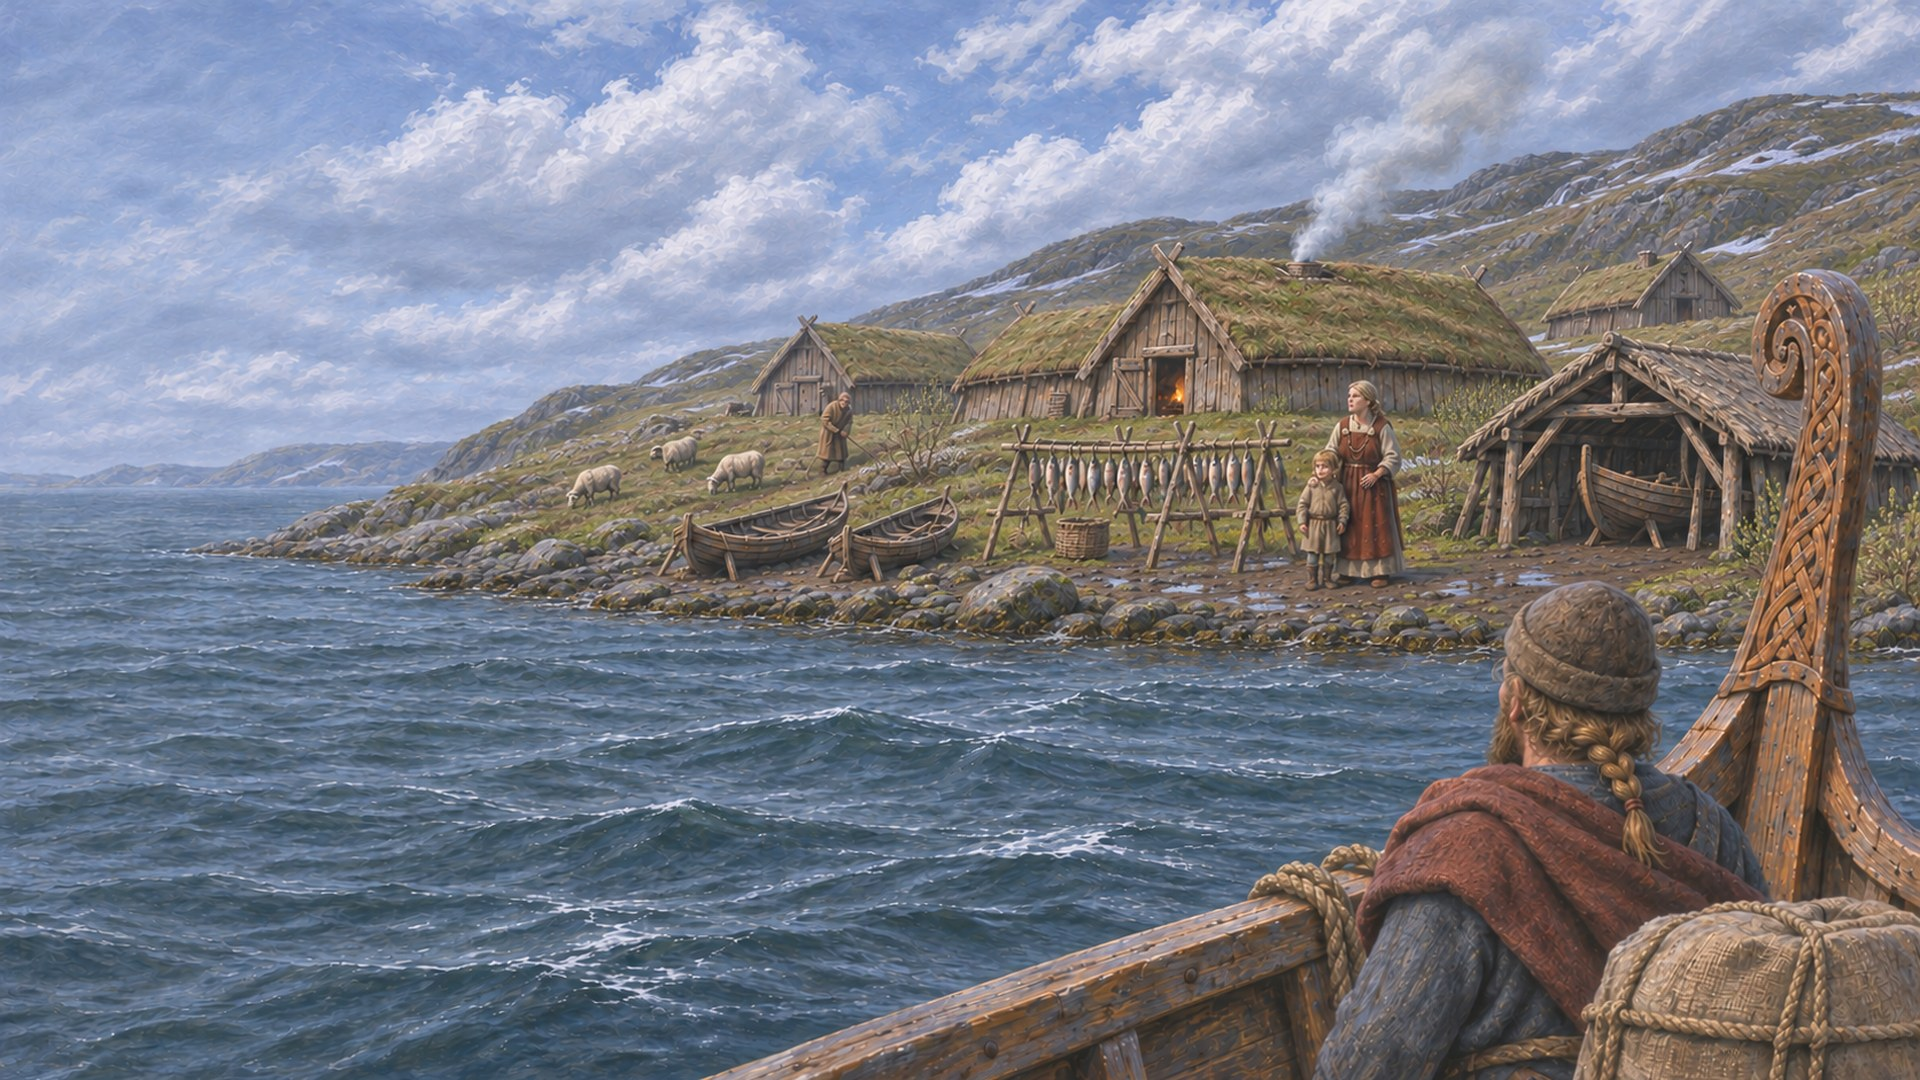
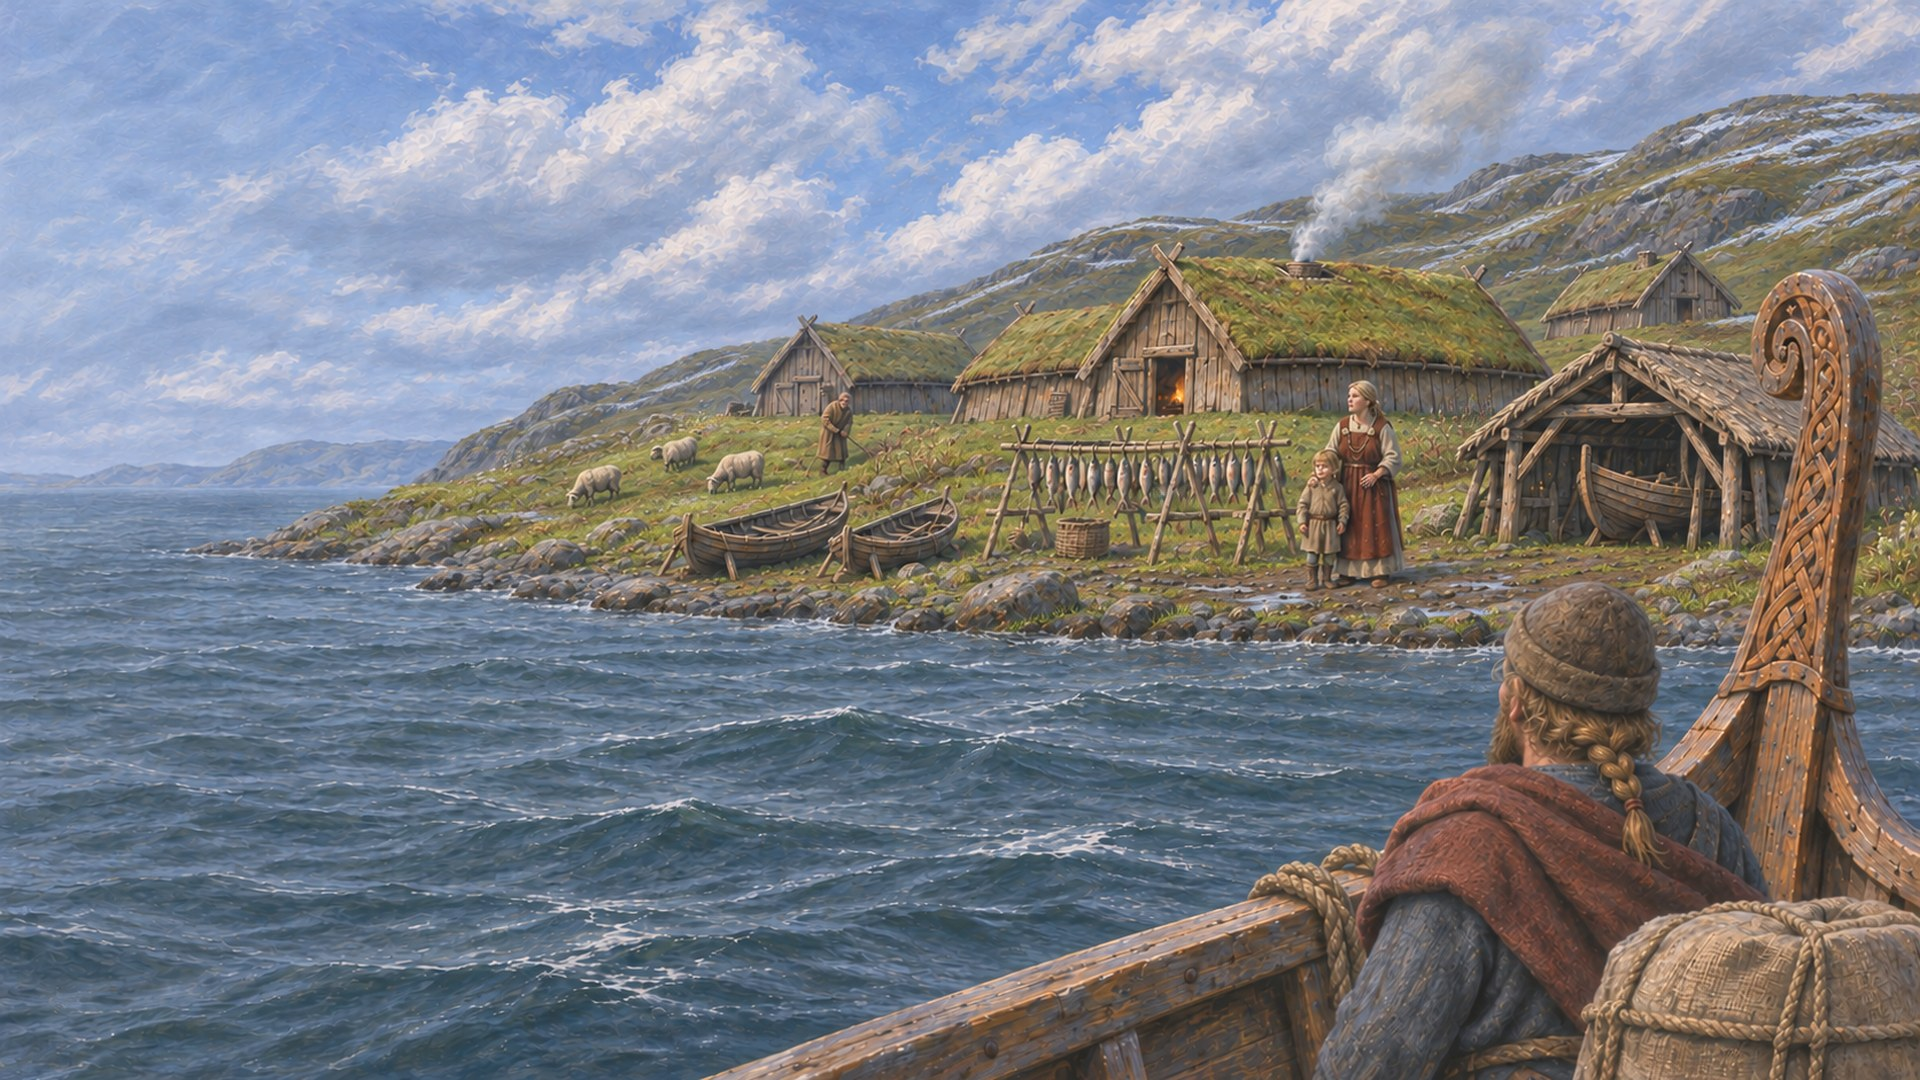
The rest of the seasonal paintings
The last 55 season paintings from the seasonal set (215 in all, plus the skarn winter village),
placed with tools/art-place/place.py --seasonal; the spring hamlet arrival replaced by its redone
version. Asset index rebuilt (it now also lists the delivered Skarn home music as final).

diff --git a/game/ASSET_LIST.md b/game/ASSET_LIST.md
@@ -2,7 +2,7 @@
 
 _Generated by `npm run tool -- assets-index` from `src/content/assets/manifest/*.json` and the files in `public/assets/`. Do not edit by hand; see ASSET_DROP_IN.md._
 
-**354 assets: 100 final, 254 placeholder.** Images 226 · music 30 · sound effects 91 · voice 7.
+**354 assets: 101 final, 253 placeholder.** Images 226 · music 30 · sound effects 91 · voice 7.
 
 ## encounters (8: 8 final, 0 placeholder)
 
@@ -21,15 +21,15 @@ _Generated by `npm run tool -- assets-index` from `src/content/assets/manifest/*
 
 | Asset id | Kind | Final file (under public/assets/) | Size / duration | Brief | Status |
 |---|---|---|---|---|---|
-| `expeditions.scene.homecoming` | image | `expeditions/homecoming.jpg` | 1920×1080 | The expedition comes home: from the leading ship's deck, the ships rowing up the fjord low in the water, the whole village running down to the strand. Subject on the right two thirds; the left third stays calm for text. | final |
-| `expeditions.scene.lost` | image | `expeditions/lost.jpg` | 1920×1080 | The expedition is lost: a handful of soaked survivors walking home along a grey shore road in the rain, without their ships, the home village small ahead. Subject on the right two thirds; the left third stays calm for text. | final |
-| `expeditions.scene.planner` | image | `expeditions/planner.jpg` | 1920×1080 | Mustering an expedition: early morning on the strand below the home village, three ships with gangplanks down, men carrying barrels, sacks, spears and shields aboard. Subject on the right two thirds; the left third stays calm for text. | final |
+| `expeditions.scene.homecoming` | image | `expeditions/homecoming.jpg` | 1920×1080 | The expedition comes home: from the leading ship's deck, the ships rowing up the fjord low in the water, the whole village running down to the strand. Subject on the right two thirds; the left third stays calm for text. | final; own paintings for spring, autumn, winter |
+| `expeditions.scene.lost` | image | `expeditions/lost.jpg` | 1920×1080 | The expedition is lost: a handful of soaked survivors walking home along a grey shore road in the rain, without their ships, the home village small ahead. Subject on the right two thirds; the left third stays calm for text. | final; own paintings for spring, autumn, winter |
+| `expeditions.scene.planner` | image | `expeditions/planner.jpg` | 1920×1080 | Mustering an expedition: early morning on the strand below the home village, three ships with gangplanks down, men carrying barrels, sacks, spears and shields aboard. Subject on the right two thirds; the left third stays calm for text. | final; own paintings for spring, autumn, winter |
 
 ## settlements (26: 26 final, 0 placeholder)
 
 | Asset id | Kind | Final file (under public/assets/) | Size / duration | Brief | Status |
 |---|---|---|---|---|---|
-| `settlements.scene.aftermath` | image | `settlements/aftermath.jpg` | 1920×1080 | After the assault: the taken settlement behind, smoke rising red in the dusk, our warriors with a banner in the foreground. | final |
+| `settlements.scene.aftermath` | image | `settlements/aftermath.jpg` | 1920×1080 | After the assault: the taken settlement behind, smoke rising red in the dusk, our warriors with a banner in the foreground. | final; own paintings for spring, autumn, winter |
 | `settlements.scene.arrival.capital` | image | `settlements/arrival-capital.jpg` | 1920×1080 | Arrival by sea at a capital: seen from our ship's bow, the shore, jetty and houses ahead, walls as the place has them. Subject on the right two thirds; the left third stays calm for text. | final; own paintings for spring, autumn, winter |
 | `settlements.scene.arrival.city` | image | `settlements/arrival-city.jpg` | 1920×1080 | Arrival by sea at a city: seen from our ship's bow, the shore, jetty and houses ahead, walls as the place has them. Subject on the right two thirds; the left third stays calm for text. | final; own paintings for spring, autumn, winter |
 | `settlements.scene.arrival.city.south` | image | `settlements/arrival-city-south.jpg` | 1920×1080 | Arrival by sea at a city of the warm south (Corvaine): old imperial stone walls patched with brick, red roofs, a stone breakwater, cypress and olive hills, a pillared hall with a gilded lantern. Seen from our ship's bow. Subject on the right two thirds; the left third stays calm for text. | final; own paintings for spring, autumn, winter |
@@ -49,10 +49,10 @@ _Generated by `npm run tool -- assets-index` from `src/content/assets/manifest/*
 | `settlements.scene.visit.capital` | image | `settlements/visit-capital.jpg` | 1920×1080 | Visiting a capital: standing on its quay among barrels and mooring posts, the houses and hall close above the strand. Subject on the right two thirds. | final; own paintings for spring, autumn, winter |
 | `settlements.scene.visit.city` | image | `settlements/visit-city.jpg` | 1920×1080 | Visiting a city: standing on its quay among barrels and mooring posts, the houses and hall close above the strand. Subject on the right two thirds. | final; own paintings for spring, autumn, winter |
 | `settlements.scene.visit.cloister` | image | `settlements/visit-cloister.jpg` | 1920×1080 | Visiting a cloister: standing on its quay among barrels and mooring posts, the houses and hall close above the strand. Subject on the right two thirds. | final; own paintings for spring, autumn, winter |
-| `settlements.scene.visit.emporium` | image | `settlements/visit-emporium.jpg` | 1920×1080 | Visiting a emporium: standing on its quay among barrels and mooring posts, the houses and hall close above the strand. Subject on the right two thirds. | final |
+| `settlements.scene.visit.emporium` | image | `settlements/visit-emporium.jpg` | 1920×1080 | Visiting a emporium: standing on its quay among barrels and mooring posts, the houses and hall close above the strand. Subject on the right two thirds. | final; own paintings for spring, autumn, winter |
 | `settlements.scene.visit.fortress` | image | `settlements/visit-fortress.jpg` | 1920×1080 | Visiting a fortress: standing on its quay among barrels and mooring posts, the houses and hall close above the strand. Subject on the right two thirds. | final; own paintings for spring, autumn, winter |
 | `settlements.scene.visit.hamlet` | image | `settlements/visit-hamlet.jpg` | 1920×1080 | Visiting a hamlet: standing on its quay among barrels and mooring posts, the houses and hall close above the strand. Subject on the right two thirds. | final; own paintings for spring, autumn, winter |
-| `settlements.scene.visit.templeStead` | image | `settlements/visit-temple-stead.jpg` | 1920×1080 | Visiting a temple stead: standing on its quay among barrels and mooring posts, the houses and hall close above the strand. Subject on the right two thirds. | final |
+| `settlements.scene.visit.templeStead` | image | `settlements/visit-temple-stead.jpg` | 1920×1080 | Visiting a temple stead: standing on its quay among barrels and mooring posts, the houses and hall close above the strand. Subject on the right two thirds. | final; own paintings for spring, autumn, winter |
 | `settlements.scene.visit.town` | image | `settlements/visit-town.jpg` | 1920×1080 | Visiting a town: standing on its quay among barrels and mooring posts, the houses and hall close above the strand. Subject on the right two thirds. | final; own paintings for spring, autumn, winter |
 | `settlements.scene.visit.village` | image | `settlements/visit-village.jpg` | 1920×1080 | Visiting a village: standing on its quay among barrels and mooring posts, the houses and hall close above the strand. Subject on the right two thirds. | final; own paintings for spring, autumn, winter |
 
@@ -63,7 +63,7 @@ _Generated by `npm run tool -- assets-index` from `src/content/assets/manifest/*
 | `news.icon.confirmed` | image | `news/icon-confirmed.png` | 64×64 | Confirmed | placeholder |
 | `news.icon.dispatch` | image | `news/icon-dispatch.png` | 64×64 | Dispatch | placeholder |
 | `news.icon.rumour` | image | `news/icon-rumour.png` | 64×64 | Rumour | placeholder |
-| `news.illus.messenger` | image | `news/messenger.png` | 640×360 | A Rider Brings Word | final (jpg) |
+| `news.illus.messenger` | image | `news/messenger.png` | 640×360 | A Rider Brings Word | final (jpg); own paintings for spring, autumn, winter |
 | `news.illus.tavernTalk` | image | `news/tavern-talk.png` | 640×360 | Talk in the Mead-Hall | final (jpg) |
 
 ## military (8: 4 final, 4 placeholder)
@@ -73,7 +73,7 @@ _Generated by `npm run tool -- assets-index` from `src/content/assets/manifest/*
 | `military.illus.desertion` | image | `military/desertion.png` | 640×360 | Gone in the Night | final (jpg); own paintings for spring, autumn, winter |
 | `military.illus.muster` | image | `military/muster.png` | 640×360 | The War-Arrow | final (jpg); own paintings for spring, autumn, winter |
 | `military.illus.shipyard` | image | `military/shipyard.png` | 640×360 | The Shipyard | final (jpg); own paintings for spring, autumn, winter |
-| `military.illus.transferIntercepted` | image | `military/transfer-intercepted.png` | 640×360 | Raiders on the Road | final (jpg); own paintings for spring, autumn |
+| `military.illus.transferIntercepted` | image | `military/transfer-intercepted.png` | 640×360 | Raiders on the Road | final (jpg); own paintings for spring, autumn, winter |
 | `military.sfx.coins` | sfx | `sfx/military/hire.ogg` | ~1 s | Sellsword hired. Brief: A purse of hack-silver set down on a mead-hall table: a sellsword is hired. | placeholder |
 | `military.sfx.musterHorn` | sfx | `sfx/military/muster-horn.ogg` | ~3.5 s | Muster horn. Brief: One long cow-horn call rolling over the farms: the war-arrow has gone out and the men are gathering. | placeholder |
 | `military.sfx.shipLaunch` | sfx | `sfx/military/ship-launch.ogg` | ~2.5 s | Ship launched. Brief: A new hull slides off the rollers into the fjord: timber groaning, a heavy splash, a cheer from the slipway. | placeholder |
@@ -95,15 +95,15 @@ _Generated by `npm run tool -- assets-index` from `src/content/assets/manifest/*
 
 | Asset id | Kind | Final file (under public/assets/) | Size / duration | Brief | Status |
 |---|---|---|---|---|---|
-| `narrative.illus.afterTheShieldWall` | image | `narrative/storylets/after-the-shield-wall.png` | 640×360 | When the Shields Come Down | final (jpg) |
+| `narrative.illus.afterTheShieldWall` | image | `narrative/storylets/after-the-shield-wall.png` | 640×360 | When the Shields Come Down | final (jpg); own paintings for spring, autumn, winter |
 | `narrative.illus.boastReckoning` | image | `narrative/storylets/boast-reckoning.png` | 640×360 | The Firth Remembers | final (jpg) |
-| `narrative.illus.boundaryStone` | image | `narrative/storylets/boundary-stone.png` | 640×360 | The Wandering Stone | final (jpg) |
+| `narrative.illus.boundaryStone` | image | `narrative/storylets/boundary-stone.png` | 640×360 | The Wandering Stone | final (jpg); own paintings for spring, autumn, winter |
 | `narrative.illus.drunkenBoast` | image | `narrative/storylets/drunken-boast.png` | 640×360 | A Boast in the Cups | final (jpg) |
 | `narrative.illus.ratsInTheStores` | image | `narrative/storylets/rats-in-the-stores.png` | 640×360 | Rats in the Stores | final (jpg) |
 | `narrative.illus.ravenOverTheWake` | image | `narrative/storylets/raven-over-the-wake.png` | 640×360 | A Raven Over the Wake | final (jpg) |
-| `narrative.illus.skaldsDraft` | image | `narrative/storylets/skalds-draft.png` | 640×360 | The Skald’s Draft | final (jpg) |
+| `narrative.illus.skaldsDraft` | image | `narrative/storylets/skalds-draft.png` | 640×360 | The Skald’s Draft | final (jpg); own paintings for spring, autumn, winter |
 | `narrative.vignette.barrow` | image | `narrative/vignettes/barrow.jpg` | 640×360 | The Old Mound | final; own paintings for spring, autumn, winter |
-| `narrative.vignette.comet` | image | `narrative/vignettes/comet.jpg` | 640×360 | A Star with a Tail | final |
+| `narrative.vignette.comet` | image | `narrative/vignettes/comet.jpg` | 640×360 | A Star with a Tail | final; own paintings for spring, autumn, winter |
 | `narrative.vignette.envoy` | image | `narrative/vignettes/envoy.jpg` | 640×360 | An Envoy | final |
 | `narrative.vignette.famine` | image | `narrative/vignettes/famine.jpg` | 640×360 | Hunger | final |
 | `narrative.vignette.feast` | image | `narrative/vignettes/feast.jpg` | 640×360 | A Feast | final |
@@ -112,26 +112,26 @@ _Generated by `npm run tool -- assets-index` from `src/content/assets/manifest/*
 | `narrative.vignette.harvest` | image | `narrative/vignettes/harvest.jpg` | 640×360 | Harvest | final |
 | `narrative.vignette.holmgang` | image | `narrative/vignettes/holmgang.jpg` | 640×360 | The Duel | final; own paintings for spring, autumn, winter |
 | `narrative.vignette.hunt` | image | `narrative/vignettes/hunt.jpg` | 640×360 | The Hunt | final; own paintings for spring, summer, autumn |
-| `narrative.vignette.landing` | image | `narrative/vignettes/landing.jpg` | 640×360 | Landfall | final |
+| `narrative.vignette.landing` | image | `narrative/vignettes/landing.jpg` | 640×360 | Landfall | final; own paintings for spring, autumn, winter |
 | `narrative.vignette.northernLights` | image | `narrative/vignettes/northern-lights.jpg` | 640×360 | The Northern Lights | final |
 | `narrative.vignette.raid` | image | `narrative/vignettes/raid.jpg` | 640×360 | A Raid | final; own paintings for spring, autumn, winter |
-| `narrative.vignette.ravens` | image | `narrative/vignettes/ravens.jpg` | 640×360 | Ravens | final |
-| `narrative.vignette.shieldWall` | image | `narrative/vignettes/shield-wall.jpg` | 640×360 | The Shield Wall | final |
+| `narrative.vignette.ravens` | image | `narrative/vignettes/ravens.jpg` | 640×360 | Ravens | final; own paintings for spring, autumn, winter |
+| `narrative.vignette.shieldWall` | image | `narrative/vignettes/shield-wall.jpg` | 640×360 | The Shield Wall | final; own paintings for spring, autumn, winter |
 | `narrative.vignette.storehouse` | image | `narrative/vignettes/storehouse.jpg` | 640×360 | The Storehouse | final |
 | `narrative.vignette.storm` | image | `narrative/vignettes/storm.jpg` | 640×360 | Storm at Sea | final |
 | `narrative.vignette.thing` | image | `narrative/vignettes/thing.jpg` | 640×360 | The Assembly | final; own paintings for spring, autumn, winter |
 | `narrative.vignette.trade` | image | `narrative/vignettes/trade.jpg` | 640×360 | A Bargain | final; own paintings for spring, autumn, winter |
 | `narrative.vignette.voyage` | image | `narrative/vignettes/voyage.jpg` | 640×360 | Under Sail | final |
 | `narrative.vignette.winterShore` | image | `narrative/vignettes/winter-shore.jpg` | 640×360 | Winter on the Shore | final |
-| `narrative.vignette.wreck` | image | `narrative/vignettes/wreck.jpg` | 640×360 | Shipwreck | final |
+| `narrative.vignette.wreck` | image | `narrative/vignettes/wreck.jpg` | 640×360 | Shipwreck | final; own paintings for spring, autumn, winter |
 
 ## battle (3: 3 final, 0 placeholder)
 
 | Asset id | Kind | Final file (under public/assets/) | Size / duration | Brief | Status |
 |---|---|---|---|---|---|
-| `battle.scene.before` | image | `battle/before.jpg` | 1920×1080 | Before the battle: a grey morning, our war-band forming its shield line before a palisaded town, the leader pointing, the defenders gathering on the bank ahead. Subject on the right two thirds; the left third stays calm for text. | final |
-| `battle.scene.defeat` | image | `battle/defeat.jpg` | 1920×1080 | The day is lost: dusk, our men falling back toward the ships carrying a wounded friend, the enemy line dark on the ridge behind, not following. Subject on the right two thirds; the left third stays calm for text. | final |
-| `battle.scene.victory` | image | `battle/victory.jpg` | 1920×1080 | The field is ours: evening, our warriors on a taken earth bank with a broken palisade, spears raised as the banner is planted, the last of the enemy running for the trees. Subject on the right two thirds; the left third stays calm for text. | final |
+| `battle.scene.before` | image | `battle/before.jpg` | 1920×1080 | Before the battle: a grey morning, our war-band forming its shield line before a palisaded town, the leader pointing, the defenders gathering on the bank ahead. Subject on the right two thirds; the left third stays calm for text. | final; own paintings for spring, autumn, winter |
+| `battle.scene.defeat` | image | `battle/defeat.jpg` | 1920×1080 | The day is lost: dusk, our men falling back toward the ships carrying a wounded friend, the enemy line dark on the ridge behind, not following. Subject on the right two thirds; the left third stays calm for text. | final; own paintings for spring, autumn, winter |
+| `battle.scene.victory` | image | `battle/victory.jpg` | 1920×1080 | The field is ours: evening, our warriors on a taken earth bank with a broken palisade, spears raised as the banner is planted, the last of the enemy running for the trees. Subject on the right two thirds; the left third stays calm for text. | final; own paintings for spring, autumn, winter |
 
 ## seabattle (24: 3 final, 21 placeholder)
 
@@ -327,7 +327,7 @@ _Generated by `npm run tool -- assets-index` from `src/content/assets/manifest/*
 | `portraits.layer.scar.nose` | image | `portraits/layers/scar/nose.png` | 512×640 | Portrait layer: Scar / eye injury, nose (full colour; transparent 512x640 canvas) | placeholder |
 | `portraits.silhouette` | image | `portraits/silhouette.png` | 512×640 | Unknown or unmet figure (hooded silhouette) | placeholder |
 
-## music (96: 0 final, 96 placeholder)
+## music (96: 1 final, 95 placeholder)
 
 | Asset id | Kind | Final file (under public/assets/) | Size / duration | Brief | Status |
 |---|---|---|---|---|---|
@@ -413,7 +413,7 @@ _Generated by `npm run tool -- assets-index` from `src/content/assets/manifest/*
 | `music.track.funeral` | music | `music/funeral.ogg` | ~150 s, loop | Placeholder: funeral (generative score). Brief: Funeral / epitaph: slow aeolian dirge, choir and horn, a single toll per bar. | placeholder |
 | `music.track.homeEyjar` | music | `music/home-eyjar.ogg` | ~153.3 s, loop | Placeholder: home eyjar (generative score). Brief: Eyjar home hall: lilting compound-time mixolydian with flute and lyre, salt wind and island pride. | placeholder |
 | `music.track.homeHvarn` | music | `music/home-hvarn.ogg` | ~152.7 s, loop | Placeholder: home hvarn (generative score). Brief: Hvarn home hall: slow triple-time dorian with bowed strings and harp, forest-dark and stubborn. | placeholder |
-| `music.track.homeSkarn` | music | `music/home-skarn.ogg` | ~156 s, loop | Placeholder: home skarn (generative score). Brief: Skarn home hall: hearth-warm aeolian lyre and bone flute, steady frame drum; fjord-cold but familiar. | placeholder |
+| `music.track.homeSkarn` | music | `music/home-skarn.ogg` | ~202.3 s, loop | Placeholder: home skarn (generative score). Brief: Skarn home hall: hearth-warm aeolian lyre and bone flute, steady frame drum; fjord-cold but familiar. | final |
 | `music.track.mainTheme` | music | `music/main-theme.ogg` | ~146.7 s, loop | Placeholder: main theme (generative score). Brief: Main theme: a proud, weathered horn melody over lyre and frame drum; D dorian; the motif returns in the coronation cue. | placeholder |
 | `music.track.meadHallLament` | music | `music/mead-hall-lament.ogg` | ~149 s, loop | Placeholder: mead hall lament (generative score). Brief: Mead-hall, lament (diegetic): a single hummed voice and lyre, late-night memory of the fallen. | placeholder |
 | `music.track.meadHallRowdy` | music | `music/mead-hall-rowdy.ogg` | ~150 s, loop | Placeholder: mead hall rowdy (generative score). Brief: Mead-hall, rowdy (diegetic): fast jig-like fiddle and lyre with clapping; a hall band in full cry. | placeholder |
